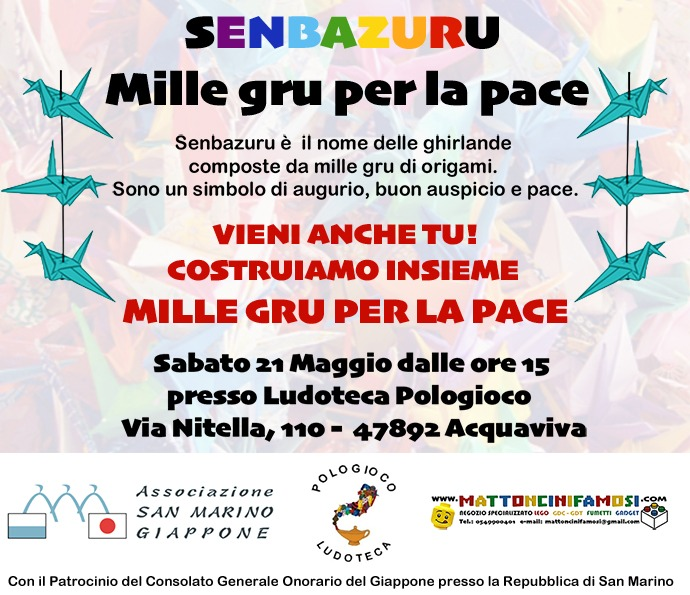
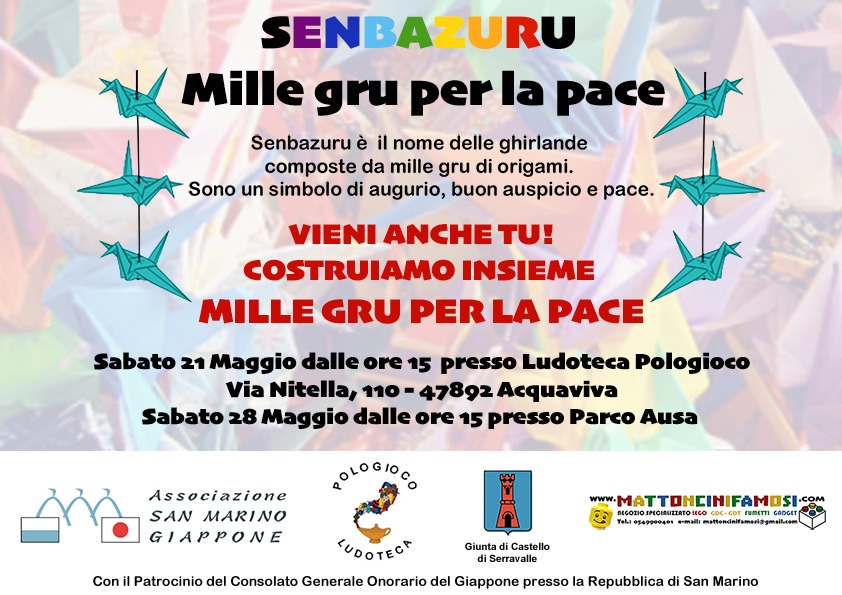
Updated news

diff --git a/src/pages/blog/2022-04-24-senbazuru-mille-gru-per-la-pace.md b/src/pages/blog/2022-04-24-senbazuru-mille-gru-per-la-pace.md
@@ -2,7 +2,7 @@
 templateKey: 'blog-post'
 title: SENBAZURU - Mille Gru per la pace
 date: 2022-04-25T12:00:00.000Z
-description: "Un evento all'insegna della convivialità e la pace"
+description: "Un evento all'insegna della convivialità e della pace"
 featuredimage: /img/2022_senbazuru.JPG
 featuredpost: false
 
@@ -20,11 +20,13 @@ In Giappone è normale trovarne numerose presso i monumenti che commemorano la f
 
 L’attualità purtroppo ci ricorda che le guerre non sono un ricordo del passato, ma un pericolo sempre presente e solo attraverso la sensibilizzazione e la cooperazione si potrà sperare un giorno di vivere in un mondo senza guerre.
 
-Per questo l’**Associazione San Marino - Giappone**, in collaborazione con **Ludoteca Pologioco**, **Mattoncini Famosi** ed il **Patrocinio del Consolato Onorario del Giappone presso la Repubblica di San Marino**  vuole organizzare una giornata all’insegna della pace per i bambini e le famiglie, con lo scopo di creare quante più gru di origami possibile e comporre insieme una ghirlanda di origami come messaggio di pace.
+Per questo l’**Associazione San Marino - Giappone**, in collaborazione con **Ludoteca Pologioco**, **Mattoncini Famosi**, la **Giunta di Castello di Serravalle** ed il **Patrocinio del Consolato Onorario del Giappone presso la Repubblica di San Marino**  vuole organizzare una giornata all’insegna della pace per i bambini e le famiglie, con lo scopo di creare quante più gru di origami possibile e comporre insieme una ghirlanda di origami come messaggio di pace.
 
 Un gesto dal valore altamente **simbolico**, ma anche **concreto** proprio per il suo aspetto conviviale e collaborativo: lavorando e giocando insieme possiamo mettere da parte differenze e conflitti e raggiungere piccoli e grandi obiettivi.
 
 Ci vediamo **Sabato 21 Maggio dalle ore 15** presso Ludoteca Pologioco **Via Nitella 110 - 47892 Acquaviva**
+
+e **Sabato 28 Maggio dalle ore 15** presso il Parco Ausa a Dogana - Serravalle
 
 Vi invitiamo a partecipare numerosi!
 
